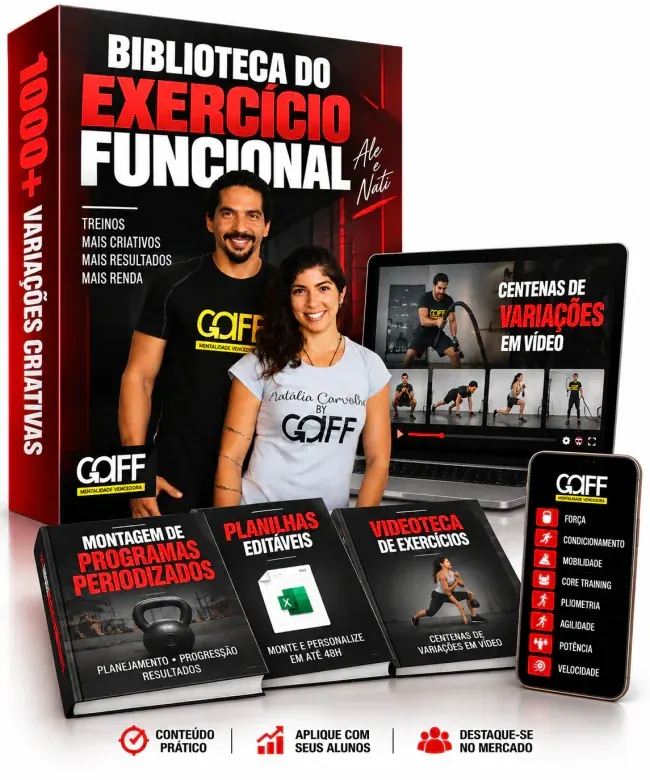
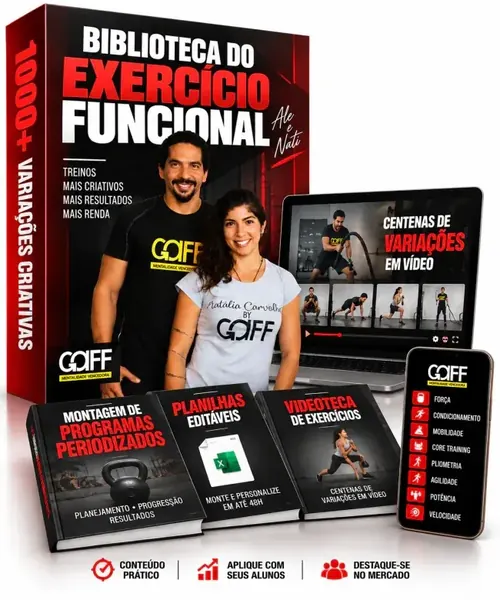
perf: optimize desktop hero image size to 500x600 for Computador PageSpeed mode

diff --git a/index.html b/index.html
@@ -45,7 +45,7 @@
   
   <!-- Canonical & Preload -->
   <link rel="canonical" href="https://gafftraining.com.br/">
-  <link rel="preload" as="image" href="images/hero-mockup-biblioteca-mobile.webp" imagesrcset="images/hero-mockup-biblioteca-mobile.webp 400w, images/hero-mockup-biblioteca.webp 650w" imagesizes="(max-width: 640px) 370px, 650px" type="image/webp">
+  <link rel="preload" as="image" href="images/hero-mockup-biblioteca-mobile.webp" imagesrcset="images/hero-mockup-biblioteca-mobile.webp 400w, images/hero-mockup-biblioteca.webp 500w" imagesizes="(max-width: 640px) 370px, 500px" type="image/webp">
   <link rel="icon" type="image/webp" href="images/favicon.webp">
 
   <!-- Enhanced Open Graph SEO -->
@@ -122,7 +122,7 @@
 
         <div class="hero-visual">
           <picture>
-            <img src="images/hero-mockup-biblioteca.webp" srcset="images/hero-mockup-biblioteca-mobile.webp 400w, images/hero-mockup-biblioteca.webp 650w" sizes="(max-width: 640px) 370px, 650px" alt="Plataforma Biblioteca de Exercícios Funcionais em Vídeo no Celular e Tablet" width="650" height="780" loading="eager" fetchpriority="high" decoding="async">
+            <img src="images/hero-mockup-biblioteca.webp" srcset="images/hero-mockup-biblioteca-mobile.webp 400w, images/hero-mockup-biblioteca.webp 500w" sizes="(max-width: 640px) 370px, 500px" alt="Plataforma Biblioteca de Exercícios Funcionais em Vídeo no Celular e Tablet" width="500" height="600" loading="eager" fetchpriority="high" decoding="async">
           </picture>
         </div>
       </div>
